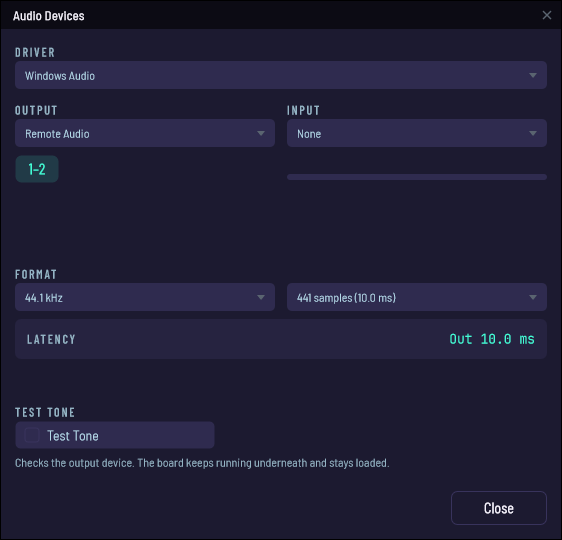
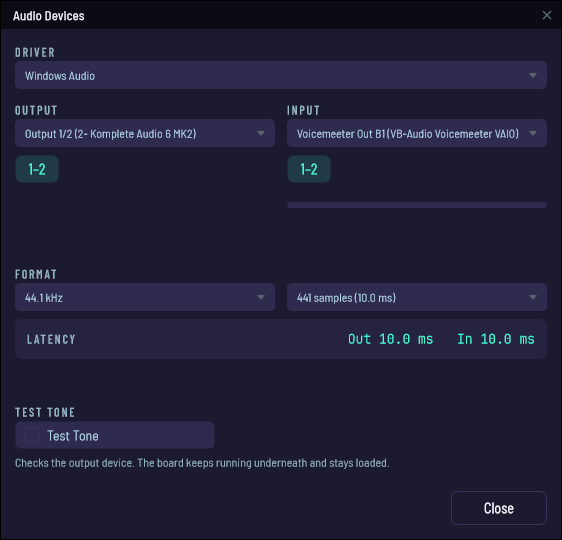
docs: a README for someone who just found the app
The maintainer's read: "We Should Simplify the Readme too, it doesn't
really explain". It was written for whoever was already working on
the repo. For a first public release it is the landing page, and it
was missing the two things a stranger needs most.

There was no download link anywhere in it. The app has had an
installer, a portable zip and a release pipeline for weeks, and
nothing on the front page said where to get any of it. There is a
Download section now, at the top, pointing at both hosts, and saying
plainly that this is a beta and unsigned.

There was also nothing telling you what to do once it opened. A Quick
start walks the five steps that get you from a fresh install to
changing patches with your feet -- audio device, scan, build a chain,
save the bank, send Program Change.

What came out: the Status section, which was already stale and would
be stale again in a week; the full build prerequisites; and the
repository layout. Those went to CONTRIBUTING.md, which is where
somebody who needs them is actually standing. CONTRIBUTING.md pointed
at the README for "the full build instructions", so moving them
without moving that line would have left the two files pointing at
each other over nothing.

The four screenshots were regenerated. They were last taken at
29582d2 and nine UI commits have landed since, so the front page was
showing the two-bar footer that !135 removed -- the exact thing the
maintainer complained about. menu-settings.png came out identical and
[…]

Changed region(s): [[0.5142, 0.237, 0.968, 0.3852], [0.0302, 0.237, 0.363, 0.2667], [0.605, 0.6222, 0.847, 0.6519]]

diff --git a/app-v3/src/tools/pb3-ui-snapshots.cpp b/app-v3/src/tools/pb3-ui-snapshots.cpp
@@ -583,6 +583,14 @@ int main(int argc, char** argv)
                 std::printf("WARNING window-board has %d of 4 nodes; the session refused the rest\n", added);
             shoot("window-board", root, 1280, 800);
 
+            // A short window with the panels still open. BodyLayout only folds
+            // them below 1200 px wide, so every other surface here is either
+            // 800 px tall with both panels up or narrow enough that they are
+            // strips -- which left the common case of a laptop window that is
+            // wide enough to keep the browser but too short to show much of it
+            // with no coverage at all.
+            shoot("window-short", root, 1280, 620);
+
             // Selecting a card is the only way a still image can show the two
             // accents apart (#105): the selected card and its mapping row take
             // the "chosen" pink, while the playing patch and the live cables

diff --git a/README.md b/README.md
@@ -6,7 +6,8 @@ you're on stage.
 
 It's a ground-up rebuild of Niall Moody's
 [Pedalboard2](https://www.niallmoody.com/work/pedalboard2/) (2013), which
-predates VST3 and doesn't get built for current machines any more.
+predates VST3 and doesn't get built for current machines any more. It still
+opens Pedalboard2 `.pdl` files.
 
 ![The main window](docs/screenshots/window-board.png)
 
@@ -14,45 +15,71 @@ Bank on the left, board in the middle, plugin browser on the right. Mappings
 along the bottom; transport, meters and the latency/CPU/memory readouts on
 top.
 
+## Download
+
+**[Latest release](https://github.com/AquaOctet/PedalBoard3/releases/latest)**
+— Windows installer or portable zip, macOS universal, Linux x64. Also on
+[GitLab](https://gitlab.com/void-realm-solutions/pedalboard-3/-/releases).
+
+This is a **beta**. It's used regularly on Windows and all three platforms are
+built and tested on every change, but macOS and Linux get far less hands-on
+use. Keep backups of boards you care about, and read the
+[release notes](docs/releases/) for the known limitations — the app isn't
+signed yet, so Windows SmartScreen and macOS Gatekeeper will both warn you the
+first time.
+
+## Quick start
+
+1. **Pick your audio device.** Settings > Audio Devices. The test tone puts a
+   440 Hz sine on the output, so you can check the cable before blaming the
+   board.
+2. **Scan for plugins.** Plugins > Plugin List. Scanning runs in a separate
+   process, so a plugin that crashes while being scanned can't take the app
+   down.
+3. **Build a chain.** Drag plugins from the right-hand browser onto the board,
+   or double-click one to add it at the end.
+4. **Save the bank.** Each patch in it gets a number, shown as `PC 0`, `PC 1`
+   and so on down the left.
+5. **Switch patches with your feet.** Send MIDI Program Change 3 from a
+   footswitch and you're on patch 3. Nothing to configure — that's the whole
+   point of the program.
+
 ## What it does
 
-- **Banks of patches.** Send Program Change 3, you're on patch 3. That's the
-  whole point of the program.
+- **Banks of patches**, switched by Program Change.
 - **MIDI and OSC mappings.** Point a CC, note, program change or pitch bend at
-  any plugin parameter, or hit Learn and move the knob.
+  any plugin parameter, or hit Learn and move the knob. App-wide mappings
+  cover things like next and previous patch.
 - **Built-in nodes.** Level, VU meter, output toggle, file player, recorder,
   metronome, looper.
 - **A transport** with a play head the plugins can see, so tempo-synced delays
   line up.
 - **Separate in and out metering**, so when it goes quiet you can tell which
   side of the board went quiet.
+- **Undo and redo**, Open Recent, and opening a board by dropping it on the
+  window. The window remembers its size and position.
+- **Missing plugins don't break a patch.** They open as placeholders and the
+  rest of the board plays.
 
-VST3 everywhere, AU on macOS, LV2 on macOS and Linux. CLAP and VST2 are build
-flags (`PB3_ENABLE_CLAP`, `PB3_ENABLE_VST2`), off in every preset, so no
-release carries either. VST2 also needs a copy of the SDK — Steinberg stopped
-giving it out, so there is nothing to download; drop yours at
-`app-v3/vst2_sdk/` and configure with `-DPB3_ENABLE_VST2=ON`. Without it the
-configure stops and says so.
+Plugin formats: VST3 everywhere, AU on macOS, LV2 on macOS and Linux. No CLAP
+or VST2 in released builds.
 
-## On a small screen
+### On a small screen
 
 Laptop on a music stand is the normal case, so the top bar spends its
 whitespace before it folds anything away, and the panels collapse to a strip.
 
 ![The same board in a narrow window](docs/screenshots/window-narrow.png)
 
-## Audio setup
+### Audio setup
 
 ![Audio devices](docs/screenshots/dialog-audio-devices.png)
 
 WASAPI, DirectSound and ASIO on Windows, CoreAudio on macOS, ALSA and JACK on
-Linux. The test tone puts a 440 Hz sine on the output so you can check the
-cable before blaming the board.
+Linux. Unplug an interface and plug it back in and it comes back; the output
+never falls back to laptop speakers on its own.
 
-Unplug an interface and plug it back in and it comes back. The output never
-falls back to laptop speakers on its own.
-
-## Turning off what you don't use
+### Turning off what you don't use
 
 ![The settings menu](docs/screenshots/menu-settings.png)
 
@@ -62,93 +89,29 @@ MIDI on, OSC off.
 
 Cables are separate: a plugin only gets a MIDI cable if it has MIDI pins.
 
-## Status
+## Building from source
 
-M1–M6 are merged — stability, live MIDI/OSC control, banks with Program
-Change switching, the mappings UI, the crash guard and `.pdl` safety, and the
-parity tail. So are the finish pass, the UI refresh and the chrome pass.
-
-Next is 1.0.0-beta.1. The version, release pipeline, Windows installer and
-portable zip all exist; what's left is hands-on use and a few decisions.
-
-- Where things stand: [`docs/status/2026-09-14-handoff.md`](docs/status/2026-09-14-handoff.md)
-- Open work: milestones M7, M8 and 1.x on GitLab
-- Releases are cut by hand off main: [`docs/releases/README.md`](docs/releases/README.md)
-- Roadmap: [`docs/plans/2026-07-02-001-feat-road-to-1-0-release-plan.md`](docs/plans/2026-07-02-001-feat-road-to-1-0-release-plan.md)
-
-## Building it
-
-JUCE 8, CMake, C++20, Catch2. Windows is the primary target; macOS and Linux
-build and are covered by CI.
-
-### Windows
-
-Any PowerShell — the script finds the Visual Studio developer environment
-itself. You need VS with the C++ workload.
+JUCE 8, CMake 3.25+, C++20, Catch2. Windows is the primary target; macOS and
+Linux build and are covered by CI.
 
 ```powershell
-./build.ps1 build                  # Debug
-./build.ps1 build -Config release  # RelWithDebInfo
-./build.ps1 test                   # build, then unit tests
+./build.ps1 build        # Windows: any PowerShell, finds VS itself
+./build.ps1 test
 ./build.ps1 run
-./build.ps1 snapshots              # every window, menu and dialog to build/ui-snapshots
-./build.ps1 package                # release build + portable zip (+ installer, with Inno Setup)
-./build.ps1 clean
 ```
 
-The screenshots above came out of `snapshots`, which is also how the UI gets
-reviewed without clicking through it.
-
-### macOS and Linux
-
-`just` picks the host's preset. The `Makefile` has the same targets.
-
 ```bash
-just build
+just build               # macOS and Linux; the Makefile has the same targets
 just test
 just run
-just release
 ```
 
-Or CMake directly:
+Full prerequisites, the other build targets, the CLAP and VST2 flags and the
+repository layout are in [CONTRIBUTING.md](CONTRIBUTING.md).
 
-```bash
-cmake --preset linux-dev -S app-v3
-cmake --build --preset linux-dev
-ctest --preset linux-dev --output-on-failure
-```
-
-macOS needs Xcode's command-line tools (`xcode-select --install`) and
-`brew install cmake ninja just pkg-config`.
-
-Linux needs CMake 3.25+, Ninja, a C++20 compiler (CI uses clang-18) and
-JUCE 8's X11 and audio libraries:
-
-```
-build-essential pkg-config clang-18
-libasound2-dev libjack-jackd2-dev
-libx11-dev libxrandr-dev libxinerama-dev libxcursor-dev
-libxext-dev libxcomposite-dev libxrender-dev
-libfreetype-dev libfontconfig1-dev
-libgl-dev libglu1-mesa-dev mesa-common-dev
-```
-
-It builds with `JUCE_USE_CURL=0` and `JUCE_WEB_BROWSER=0`, so no libcurl or
-WebKit needed.
-
-## Where things are
-
-```
-app-v3/src/           engine/, session/, control/, ui/, platform/, tools/
-app-v3/tests/         Catch2 — unit/ mirrors src/
-docs/                 plans/, design/, releases/, status/, screenshots/
-installer/windows/    Inno Setup script
-tools/                packaging scripts
-legacy/               Pedalboard2's end-user docs, for reference
-source code/          original Pedalboard2 source — READ-ONLY, never built
-vercel-ui-demo/       the UI mockup the design follows
-AGENTS.md             conventions, including for coding agents
-```
+Development happens on
+[GitLab](https://gitlab.com/void-realm-solutions/pedalboard-3), which is where
+CI runs and where the open work lives; GitHub is a mirror.
 
 ## Licence
 

diff --git a/CONTRIBUTING.md b/CONTRIBUTING.md
@@ -85,19 +85,91 @@ in advance, never retroactively.
 
 ## Building and testing
 
-The full build instructions are in [`README.md`](README.md). The short version:
+JUCE 8, CMake 3.25+, C++20, Catch2. Windows is the primary target; macOS and
+Linux build and are covered by CI.
 
-```sh
-# Windows
-./build.ps1 test
+### Windows
 
-# Linux and macOS
-just test
+Any PowerShell — the script finds the Visual Studio developer environment
+itself. You need VS with the C++ workload.
+
+```powershell
+./build.ps1 build                  # Debug
+./build.ps1 build -Config release  # RelWithDebInfo
+./build.ps1 test                   # build, then unit tests
+./build.ps1 run
+./build.ps1 snapshots              # every window, menu and dialog to build/ui-snapshots
+./build.ps1 package                # release build + portable zip (+ installer, with Inno Setup)
+./build.ps1 clean
 ```
+
+The screenshots in the README came out of `snapshots`, which is also how the
+UI gets reviewed without clicking through it.
+
+### macOS and Linux
+
+`just` picks the host's preset. The `Makefile` has the same targets.
+
+```bash
+just build
+just test
+just run
+just release
+```
+
+Or CMake directly:
+
+```bash
+cmake --preset linux-dev -S app-v3
+cmake --build --preset linux-dev
+ctest --preset linux-dev --output-on-failure
+```
+
+macOS needs Xcode's command-line tools (`xcode-select --install`) and
+`brew install cmake ninja just pkg-config`.
+
+Linux needs CMake 3.25+, Ninja, a C++20 compiler (CI uses clang-18) and
+JUCE 8's X11 and audio libraries:
+
+```
+build-essential pkg-config clang-18
+libasound2-dev libjack-jackd2-dev
+libx11-dev libxrandr-dev libxinerama-dev libxcursor-dev
+libxext-dev libxcomposite-dev libxrender-dev
+libfreetype-dev libfontconfig1-dev
+libgl-dev libglu1-mesa-dev mesa-common-dev
+```
+
+It builds with `JUCE_USE_CURL=0` and `JUCE_WEB_BROWSER=0`, so no libcurl or
+WebKit needed.
+
+### Other plugin formats
+
+CLAP and VST2 are build flags (`PB3_ENABLE_CLAP`, `PB3_ENABLE_VST2`), off in
+every preset, so no release carries either. VST2 also needs a copy of the SDK
+— Steinberg stopped giving it out, so there is nothing to download; drop yours
+at `app-v3/vst2_sdk/` and configure with `-DPB3_ENABLE_VST2=ON`. Without it
+the configure stops and says so.
+
+### What CI requires
 
 A merge request needs the test suite passing and `clang-format` clean. CI runs
 both on every MR, across Windows, macOS and Linux, and the release jobs are
 required to pass before a release is cut.
+
+## Where things are
+
+```
+app-v3/src/           engine/, session/, control/, ui/, platform/, tools/
+app-v3/tests/         Catch2 — unit/ mirrors src/
+docs/                 plans/, design/, releases/, status/, screenshots/
+installer/windows/    Inno Setup script
+tools/                packaging scripts
+legacy/               Pedalboard2's end-user docs, for reference
+source code/          original Pedalboard2 source — READ-ONLY, never built
+vercel-ui-demo/       the UI mockup the design follows
+AGENTS.md             conventions, including for coding agents
+```
 
 ## Conventions
 

diff --git a/docs/releases/v1.0.0-beta.1.md b/docs/releases/v1.0.0-beta.1.md
@@ -38,5 +38,7 @@ Uninstalling leaves your boards, recordings and settings where they are.
   becomes a placeholder and the rest of the board keeps playing.
 - **No plugin delay compensation.** A plugin that reports latency isn't compensated for, so two parallel
   paths through the board can drift apart by that much. A single chain is unaffected.
+- **Dragging a plugin onto the board puts the card where you dropped it, but always adds it at the end of
+  the chain.** To get a plugin into the middle of a chain, add it and then rewire the cables by hand.
 - **The main window's look is still changing** before 1.0.
 - **Windows file details show 1.0.0.** In a file's Properties, `Pedalboard 3.exe` shows version 1.0.0; the app and the installer show 1.0.0-beta.1.
